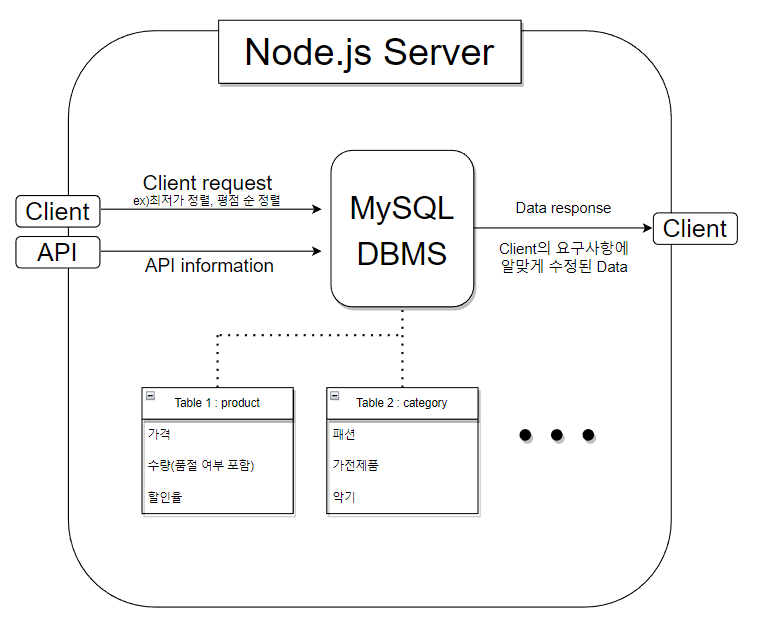
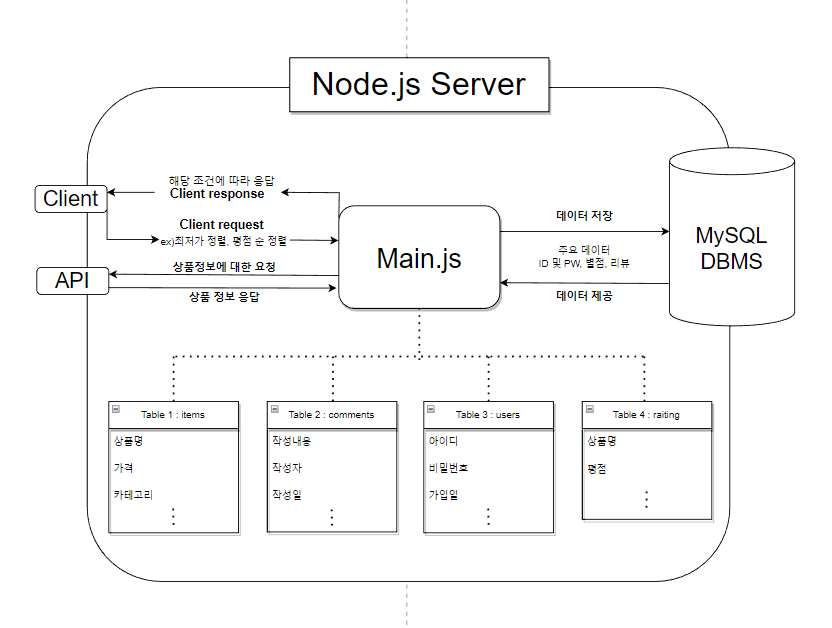
real last commit

diff --git a/README.md b/README.md
@@ -29,7 +29,7 @@ Server-Client 간 통신에서 포트번호는 서버 내에서 프로세스를 
 ![Server-Client Model](/img/block.png?raw=true "Title")
 
 ### 웹서버 - 데이터베이스서버 통신 방식
-Client Request에 따라 네이버쇼핑 API로부터 MySQL DBMS에서 테이블링되어 관리되는 데이터를 알맞게 검색하여 Client에게 Response한다.
+main.js를 통해 네이버 쇼핑으로부터 가져온 상품 데이터들을 알맞게 MySQL에서 테이블링하여 저장하고, Client 요청에 따라 알맞은 값을 데이터베이스로부터 반환
 
 ![Databse](/img/sqlblock.png)
 
